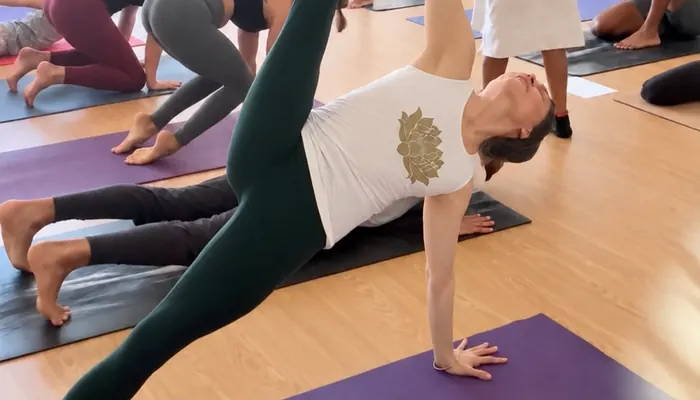
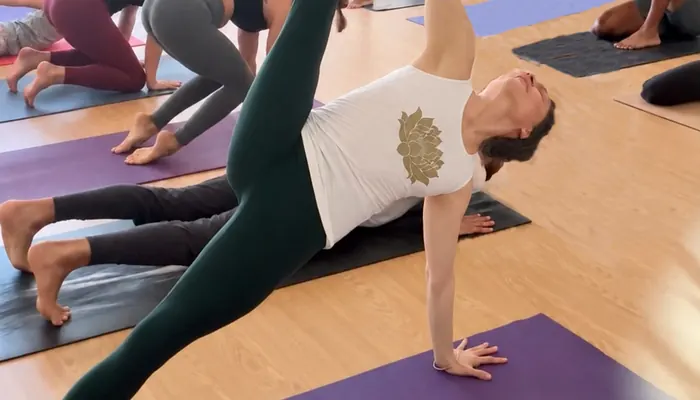
Remove the skirt, legs and shoe behind Swaran's head in the hero

diff --git a/scripts/process_images.py b/scripts/process_images.py
@@ -28,8 +28,11 @@ WEBP_Q = 78
 # much of Swaran's pose as the framing allows. The "*-cropped" sources are
 # hand-made crops (originals: cropped-pics-to-substitute-for-others/).
 JOBS = [
-    # Starts below the faces of the students and teacher behind her.
-    ("hero-swaran-side-plank.png", "hero-swaran-side-plank", (0, 650, 1186, 1327)),
+    # Already cropped below the faces of the students and teacher behind her
+    # (from hero-swaran-side-plank.png at (0, 650, 1186, 1327)), with the
+    # skirt, legs and shoe behind her head painted out in GIMP
+    # (source-images/hero-swaran-side-plank.xcf).
+    ("hero-swaran-side-plank-edited.png", "hero-swaran-side-plank", None),
     ("standing-bind-cropped.JPG", "hero-standing-bind", None),
     ("backbend-kneeling-cropped.JPG", "backbend-kneeling", None),
     ("extended-leg-cropped.JPG", "extended-leg-pose", None),
